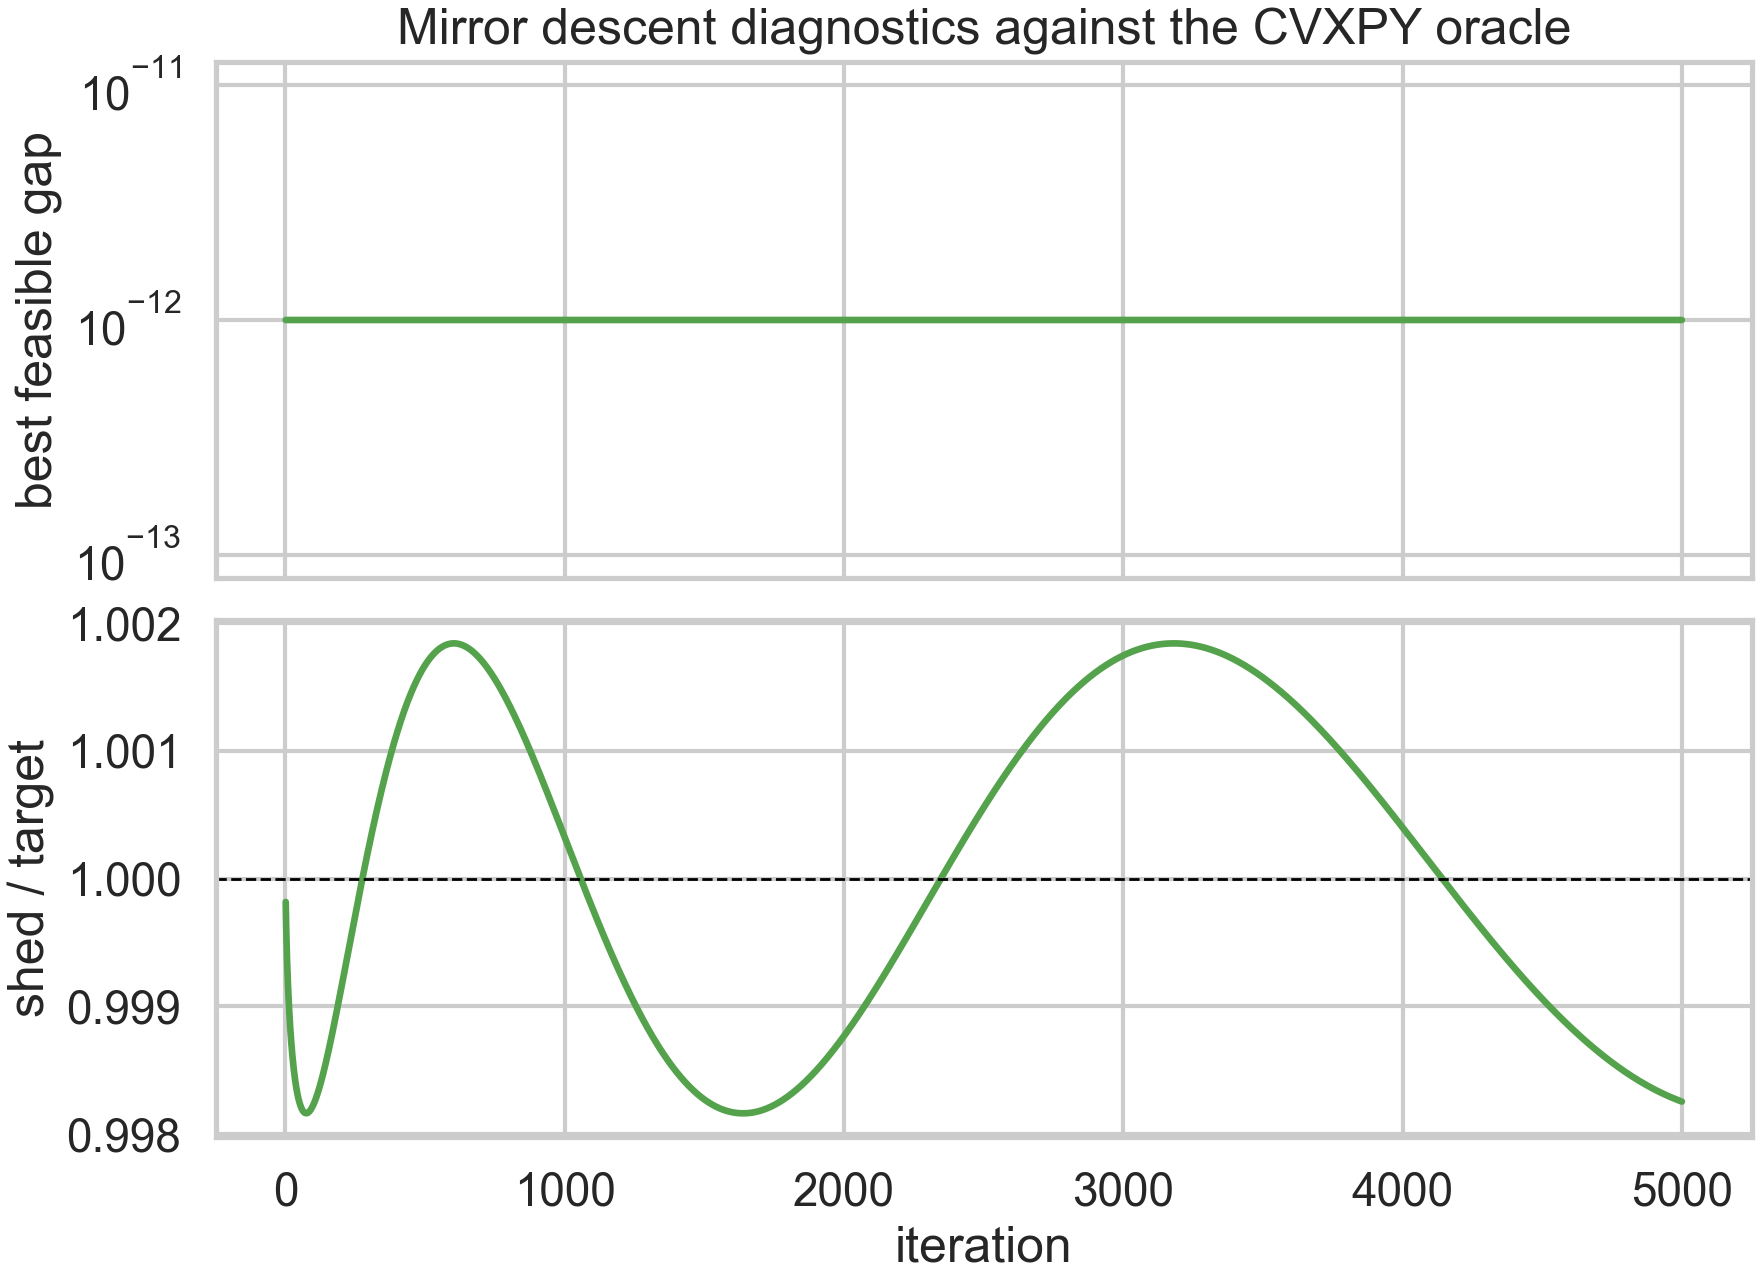
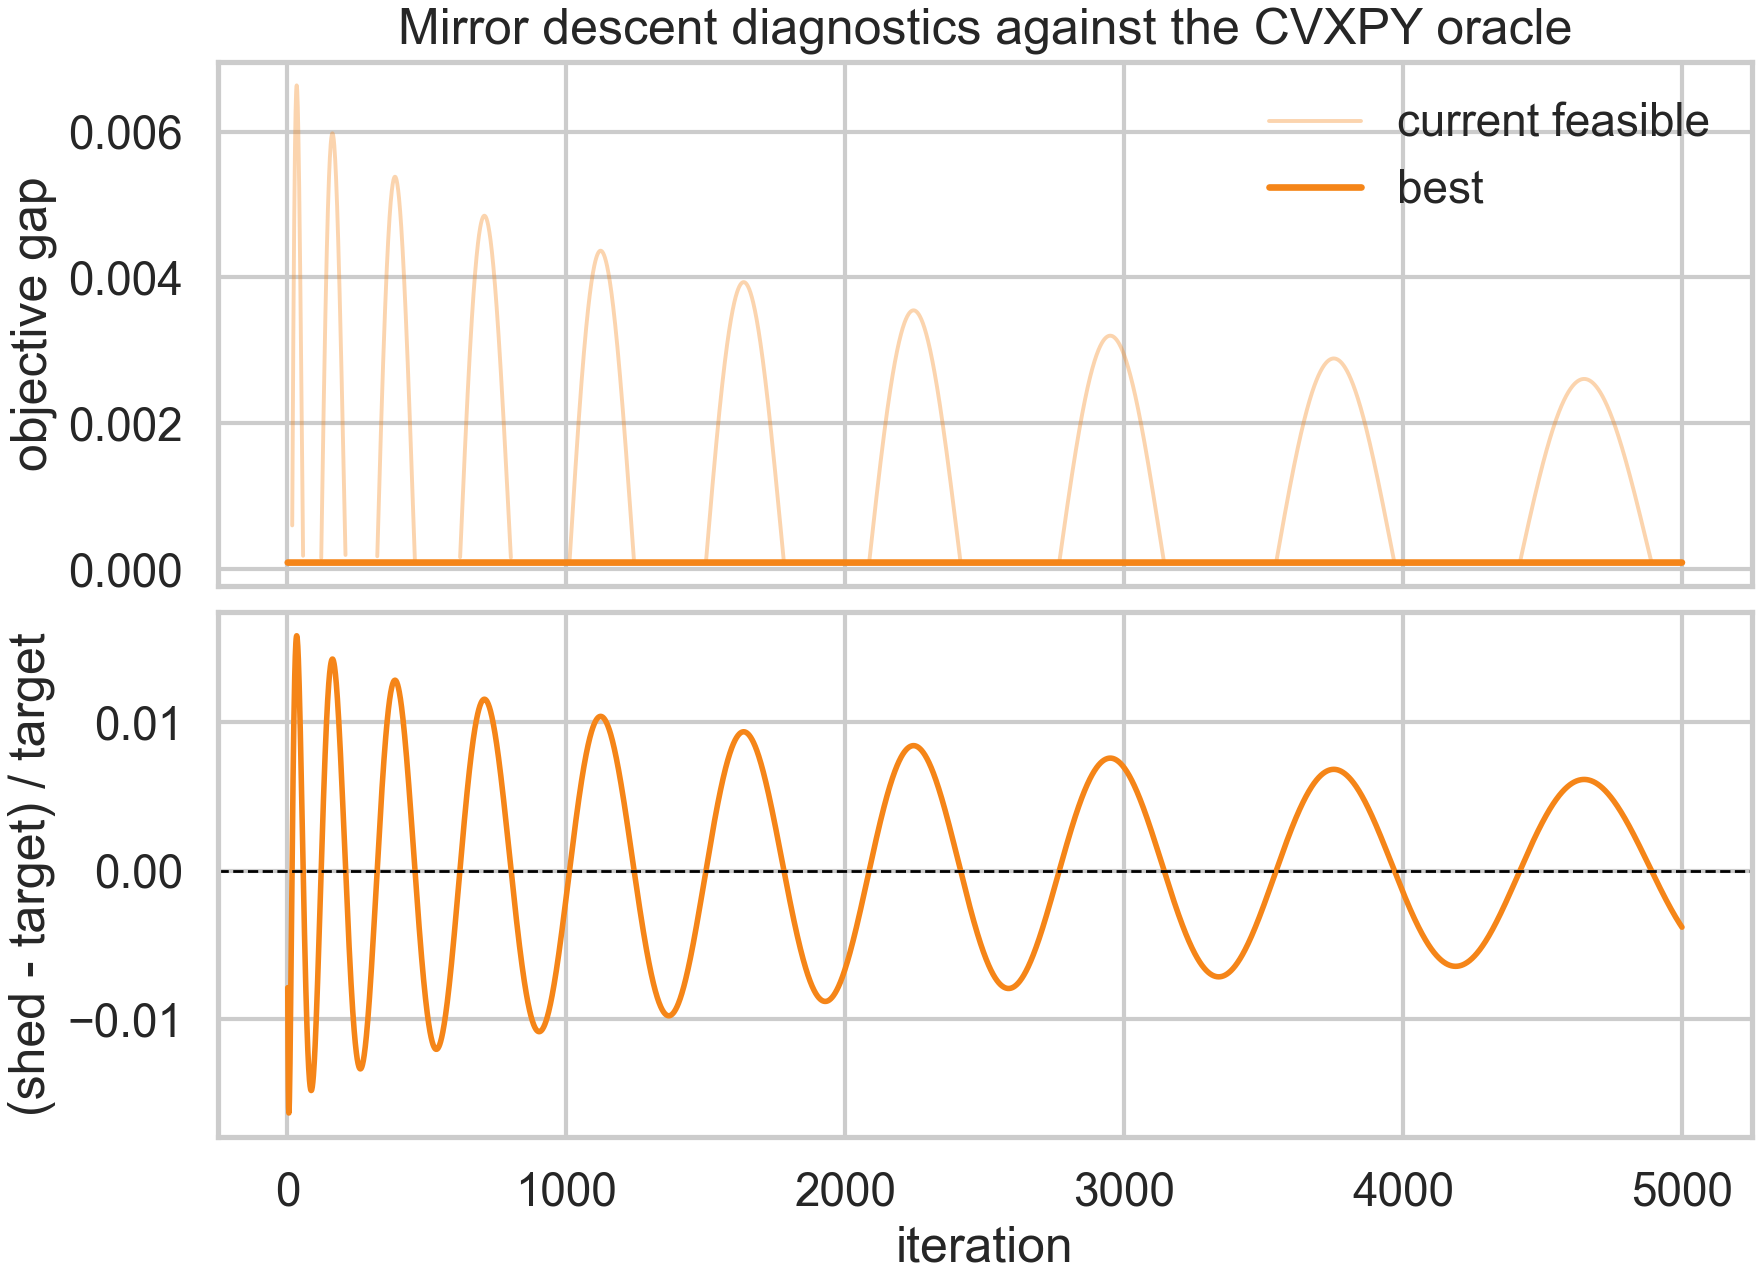
Repair convergence diagnostics plot

diff --git a/agent-migrate/convex-allocation/experiments/run_catalog_sweep.py b/agent-migrate/convex-allocation/experiments/run_catalog_sweep.py
@@ -55,6 +55,14 @@ REGIME_XLABELS = ("bandwidth", "prefill load", "background load")
 MD_STEP_SIZES = ((0.5, 0.2), (1.0, 0.2), (2.0, 0.2), (1.0, 1.0))
 
 
+def _relative_gap(values, cvx_obj):
+    return np.maximum((values - cvx_obj) / max(1.0, abs(cvx_obj)), 0.0)
+
+
+def _shed_residual(problem, shed):
+    return (shed - problem.B_shed) / problem.B_shed
+
+
 def _selected_mirror_descent(problem):
     runs = [
         solve_mirror_descent(
@@ -385,26 +393,33 @@ def plot_policy_objectives(cells, out):
 
 
 def plot_convergence(cells, out):
-    key = ("Qwen3-Next-80B-A3B", "prefill-spread")
+    key = ("GLM-5", "prefill-spread")
     problem, _, results = cells[key]
     hist = results["mirror-descent-best"].history
     cvx_obj = results["CVXPY"].objective
     t = np.arange(1, hist["shed"].size + 1)
-    gap = (hist["best_feasible_objective"] - cvx_obj) / max(1.0, abs(cvx_obj))
-    gap = np.maximum(gap, 1e-12)
+    current_gap = _relative_gap(hist["feasible_objective"], cvx_obj)
+    best_gap = _relative_gap(hist["best_feasible_objective"], cvx_obj)
+    shed_residual = _shed_residual(problem, hist["shed"])
     fig, axes = plt.subplots(
         2, 1, figsize=(8.8, 6.4), sharex=True, constrained_layout=True
     )
-    axes[0].plot(t, gap, color=MODEL_COLORS[key[0]], linewidth=2.4)
-    axes[0].set_yscale("log")
-    axes[0].set_ylabel("best feasible gap")
-    axes[0].set_title("Mirror descent diagnostics against the CVXPY oracle")
-    axes[1].plot(
-        t, hist["shed"] / problem.B_shed, color=MODEL_COLORS[key[0]], linewidth=2.4
+    axes[0].plot(
+        t,
+        current_gap,
+        color=MODEL_COLORS[key[0]],
+        alpha=0.35,
+        linewidth=1.4,
+        label="current feasible",
     )
-    axes[1].axhline(1.0, color="black", linewidth=1, linestyle="--")
+    axes[0].plot(t, best_gap, color=MODEL_COLORS[key[0]], linewidth=2.4, label="best")
+    axes[0].set_ylabel("objective gap")
+    axes[0].set_title("Mirror descent diagnostics against the CVXPY oracle")
+    axes[0].legend(frameon=False)
+    axes[1].plot(t, shed_residual, color=MODEL_COLORS[key[0]], linewidth=2.0)
+    axes[1].axhline(0.0, color="black", linewidth=1, linestyle="--")
     axes[1].set_xlabel("iteration")
-    axes[1].set_ylabel("shed / target")
+    axes[1].set_ylabel("(shed - target) / target")
     fig.savefig(out / "convergence_one_scenario.png", dpi=200)
     plt.close(fig)
 
@@ -418,10 +433,7 @@ def plot_convergence_grid(cells, out):
         _, _, results = cells[(model.name, regime)]
         cvx_obj = results["CVXPY"].objective
         hist = results["mirror-descent-best"].history
-        gap = np.maximum(
-            (hist["best_feasible_objective"] - cvx_obj) / max(1.0, abs(cvx_obj)),
-            1e-12,
-        )
+        gap = _relative_gap(hist["best_feasible_objective"], cvx_obj)
         gap[~np.isfinite(gap)] = np.nan
         axes[0].plot(
             np.arange(1, gap.size + 1),
@@ -430,25 +442,20 @@ def plot_convergence_grid(cells, out):
             linewidth=2.4,
             label=MODEL_LABELS[model.name],
         )
-        shed_violation = np.maximum(
-            hist["shed_violation"] / cells[(model.name, regime)][0].B_shed,
-            1e-12,
-        )
+        shed_residual = _shed_residual(cells[(model.name, regime)][0], hist["shed"])
         axes[1].plot(
-            np.arange(1, shed_violation.size + 1),
-            shed_violation,
+            np.arange(1, shed_residual.size + 1),
+            shed_residual,
             color=MODEL_COLORS[model.name],
             linewidth=2.0,
             label=MODEL_LABELS[model.name],
         )
-    axes[0].set_yscale("log")
     axes[0].set_ylabel("best feasible gap")
     axes[0].set_title("Mirror descent is a preliminary first-order diagnostic")
     axes[0].legend(frameon=False)
-    axes[1].set_yscale("log")
+    axes[1].axhline(0.0, color="black", linewidth=1, linestyle="--")
     axes[1].set_xlabel("iteration")
-    axes[1].set_ylabel("shed violation / target")
-    axes[1].set_ylim(1e-12, 1e0)
+    axes[1].set_ylabel("(shed - target) / target")
     fig.savefig(out / "convergence_grid.png", dpi=200)
     fig.savefig(out / "convergence_grid.pdf", dpi=200)
     plt.close(fig)
